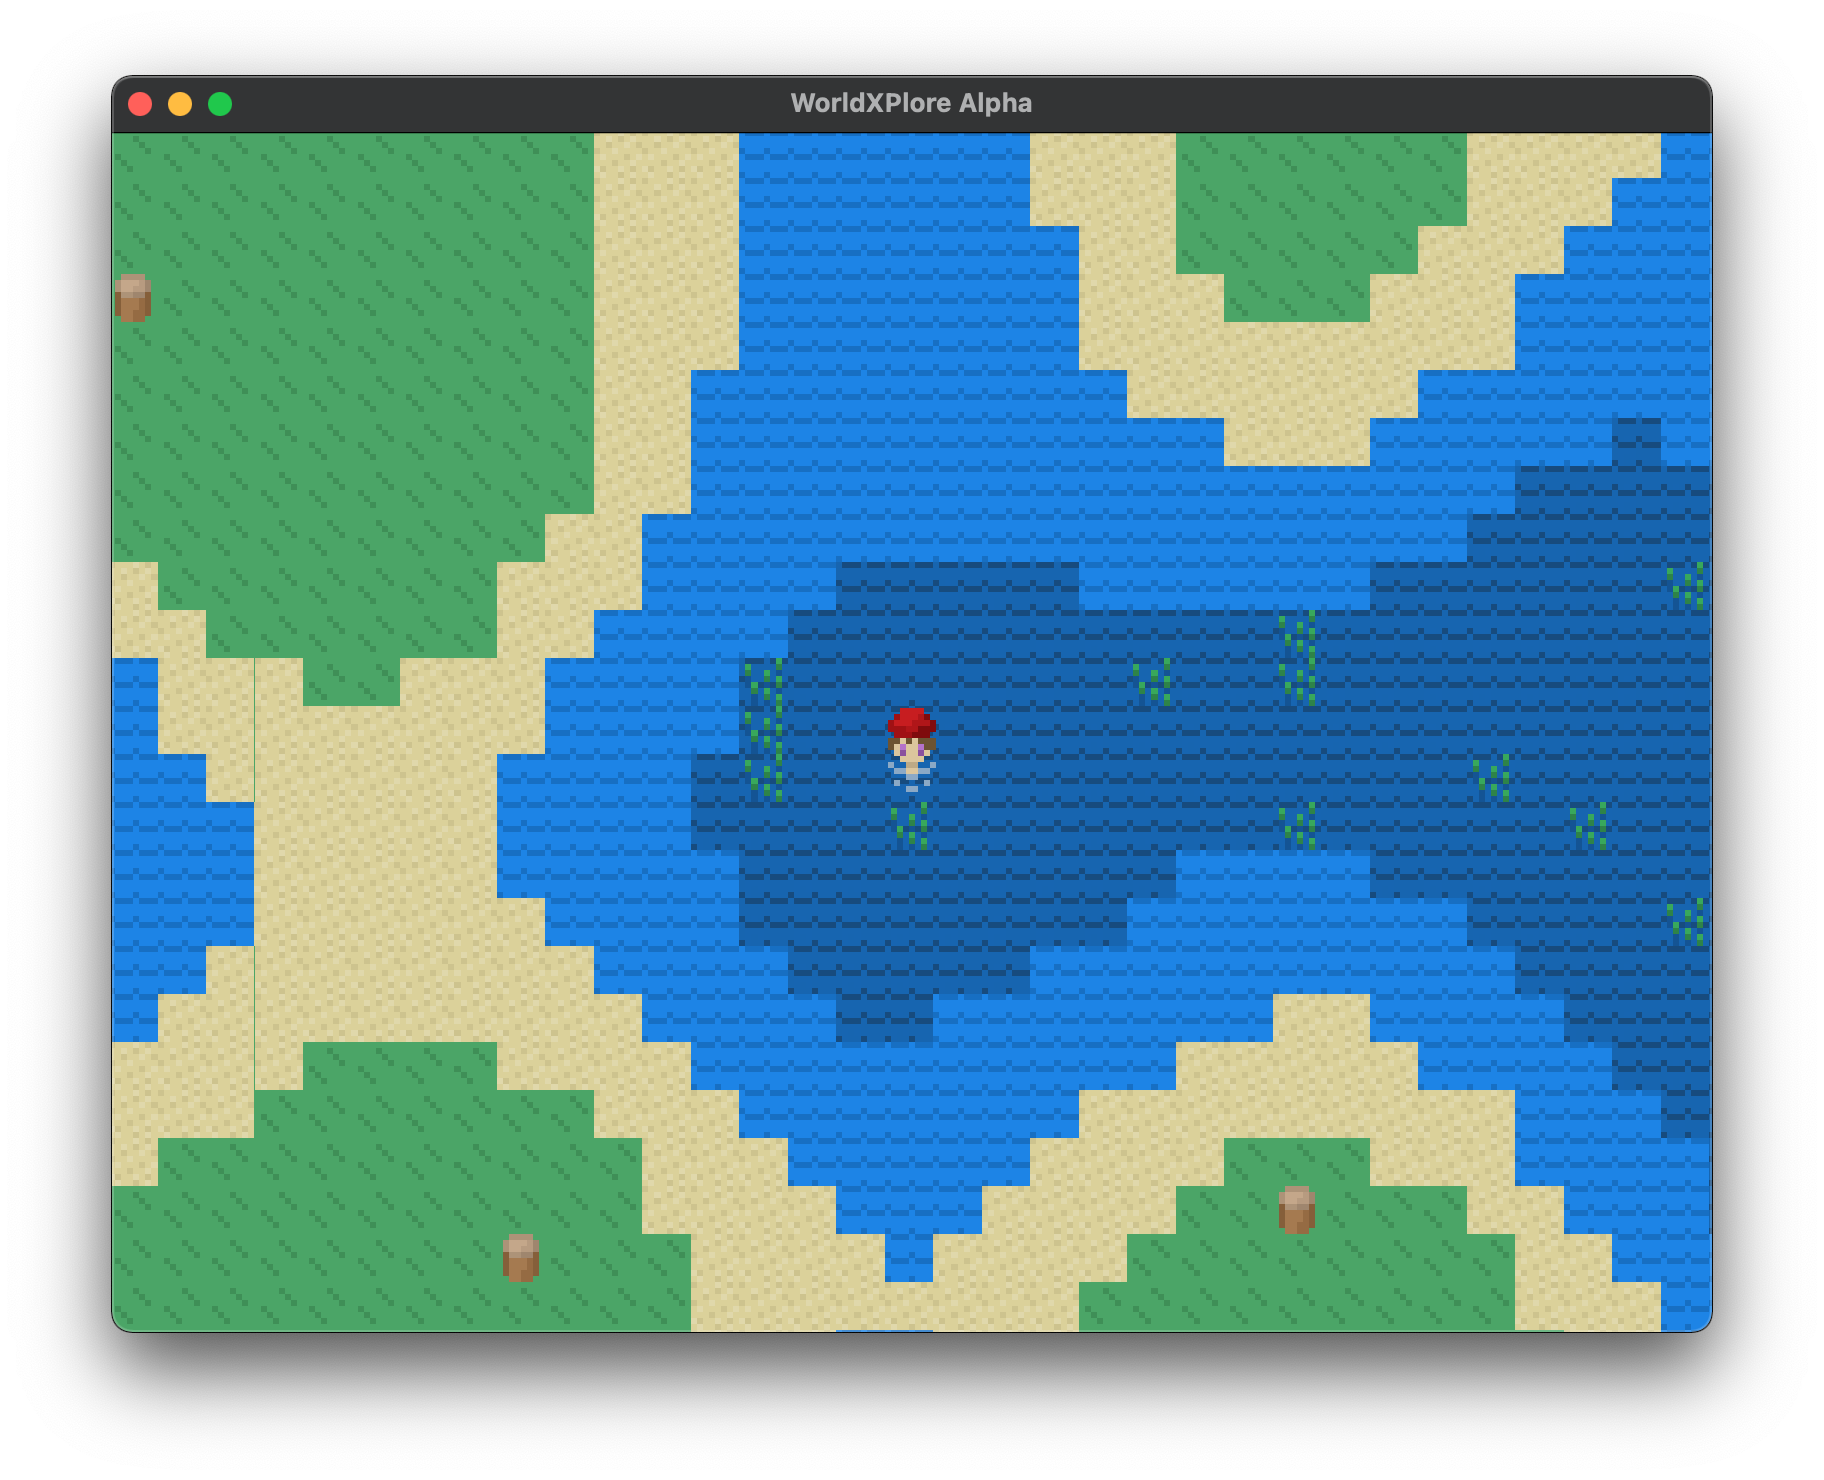
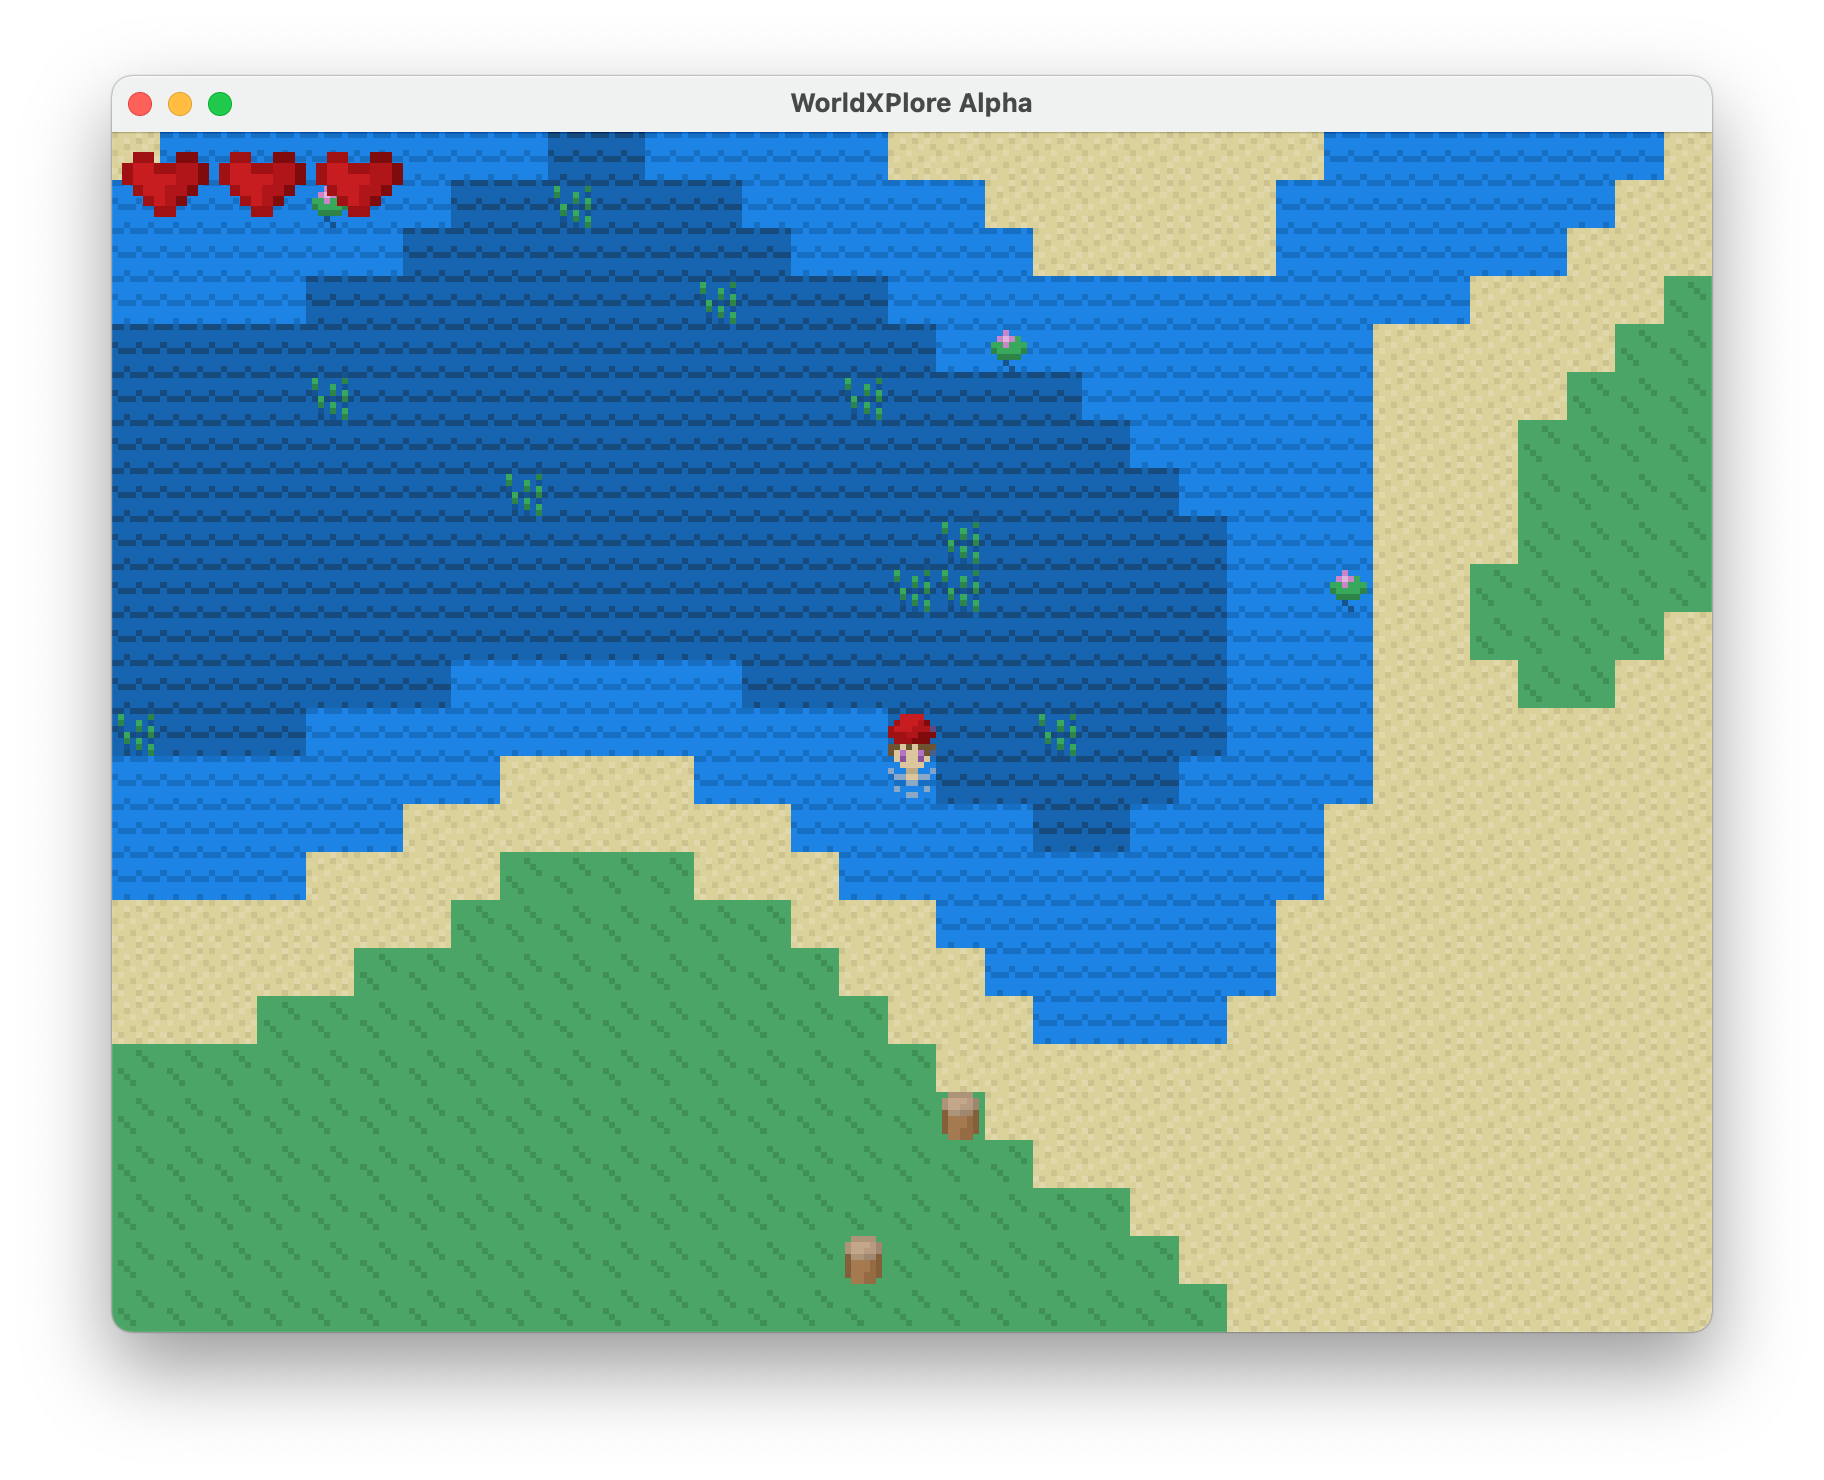
Update to add information about UI/inventory/pause

diff --git a/README.md b/README.md
@@ -7,7 +7,7 @@ Randomly generated 2D world, built with [Rust](https://www.rust-lang.org) and [W
 
 WorldXPlore is a 🛠 work in progress 🛠 game about exploring a randomly generated world, gathering resources, and surviving.
 
-WASD controls can be used to move the character around the world. Interacting with tiles is not yet implemented.
+WASD controls can be used to move the character around the world. Inventory can be accessed with E, and the game can be paused with ESC, where you can access world saving/loading, and quitting. Interacting with tiles is not yet implemented.
 
 ## Supported Platforms
 | Platform | Status |
